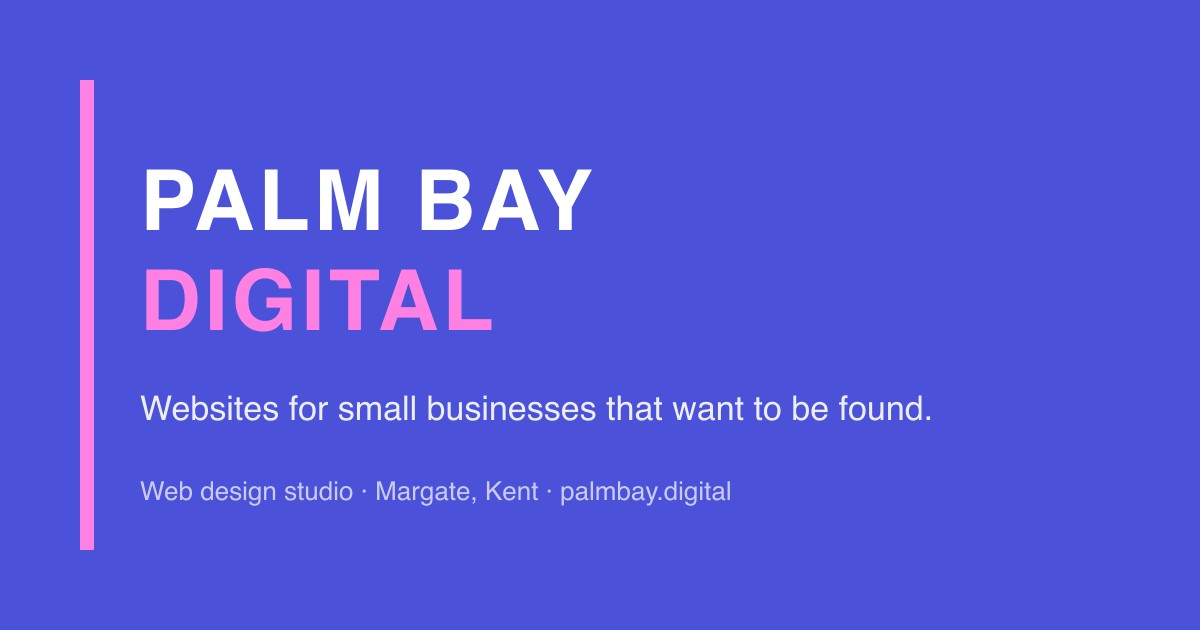
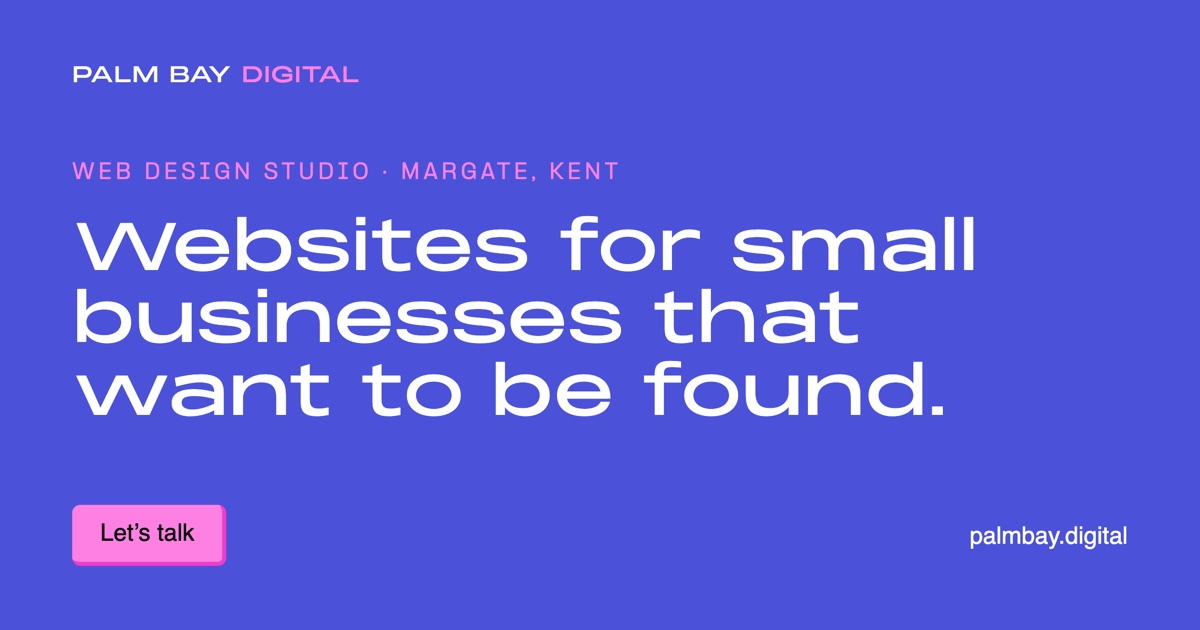
Fix missing og:image on homepage; new Palm Bay OG image
generateMetadata in app/page.tsx returned openGraph.images: undefined,
which replaced (not merged) the layout's openGraph block, so the live
page had no og:image at all and iMessage picked a portfolio screenshot.

- Resolve seofields openGraph image to a URL in HOME_QUERY (upload or URL)
- Always emit og:image / twitter:image, falling back to /og-image.jpg
- Replace public/og-image.jpg with the new 1200x630 brand image

Changed region(s): [[0.0617, 0.0905, 0.8325, 0.9048], [0.8017, 0.8143, 0.9558, 0.8746]]

diff --git a/app/page.tsx b/app/page.tsx
@@ -40,11 +40,18 @@ export async function generateMetadata(): Promise<Metadata> {
     openGraph: {
       title: seo.openGraph?.title || seo.title,
       description: seo.openGraph?.description || seo.description,
-      images: seo.openGraph?.image ? [{ url: seo.openGraph.image }] : undefined,
+      // Fall back to the static file so og:image is never dropped — Next.js
+      // replaces (not merges) the layout's openGraph block.
+      images: [
+        seo.openGraph?.image
+          ? { url: seo.openGraph.image, width: 1200, height: 630 }
+          : { url: "/og-image.jpg", width: 1200, height: 630 },
+      ],
     },
     twitter: {
       card: seo.twitter?.card || "summary_large_image",
       title: seo.twitter?.title || seo.title,
+      images: [seo.openGraph?.image || "/og-image.jpg"],
     },
     robots: {
       index: seo.robots?.index !== false,

diff --git a/lib/sanity/queries.ts b/lib/sanity/queries.ts
@@ -12,7 +12,11 @@ export const HOME_QUERY = groq`
       title,
       description,
       canonicalUrl,
-      openGraph { title, description, image },
+      openGraph {
+        title,
+        description,
+        "image": select(imageType == "url" => imageUrl, image.asset->url)
+      },
       twitter { card, title },
       robots { index, follow }
     }
